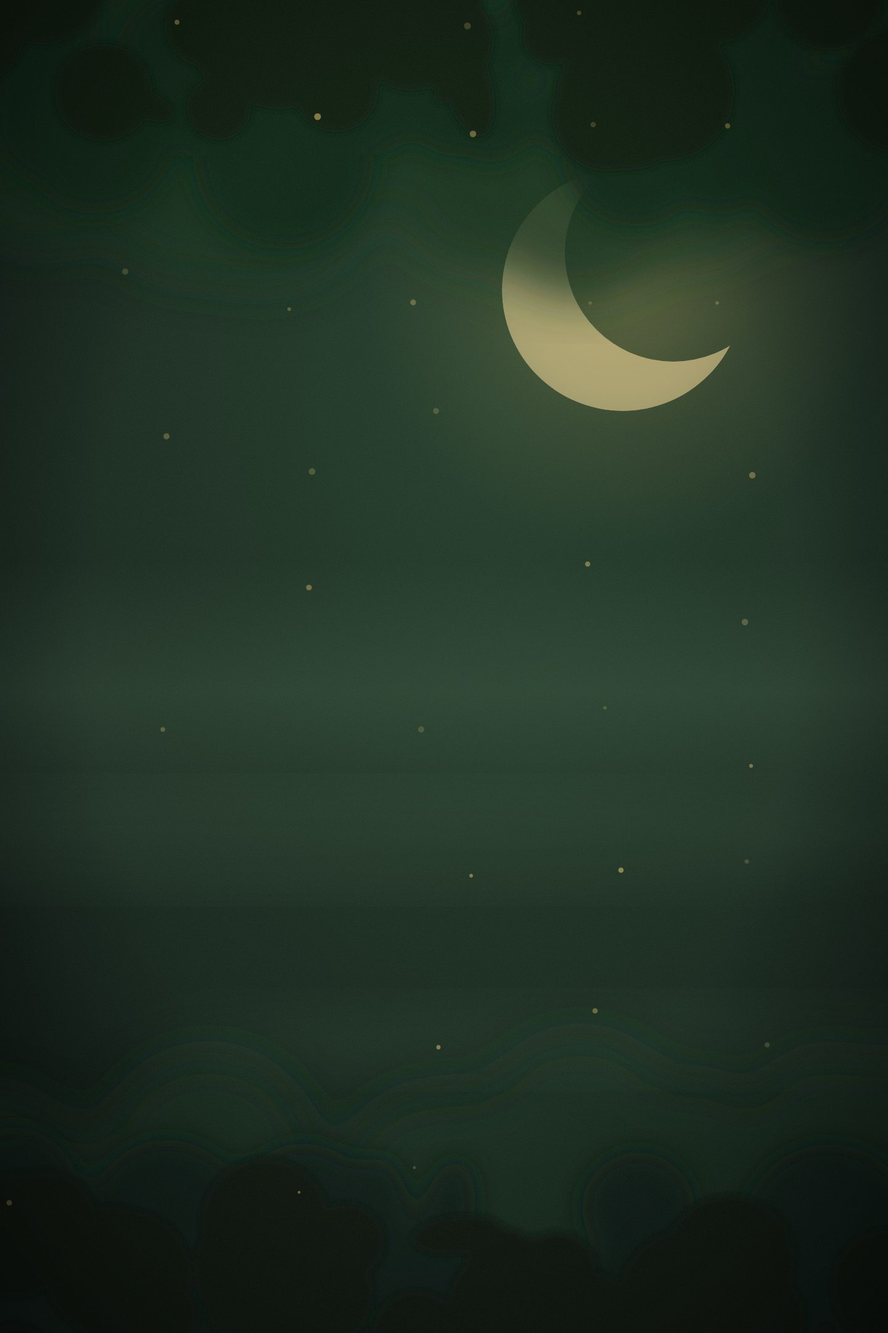
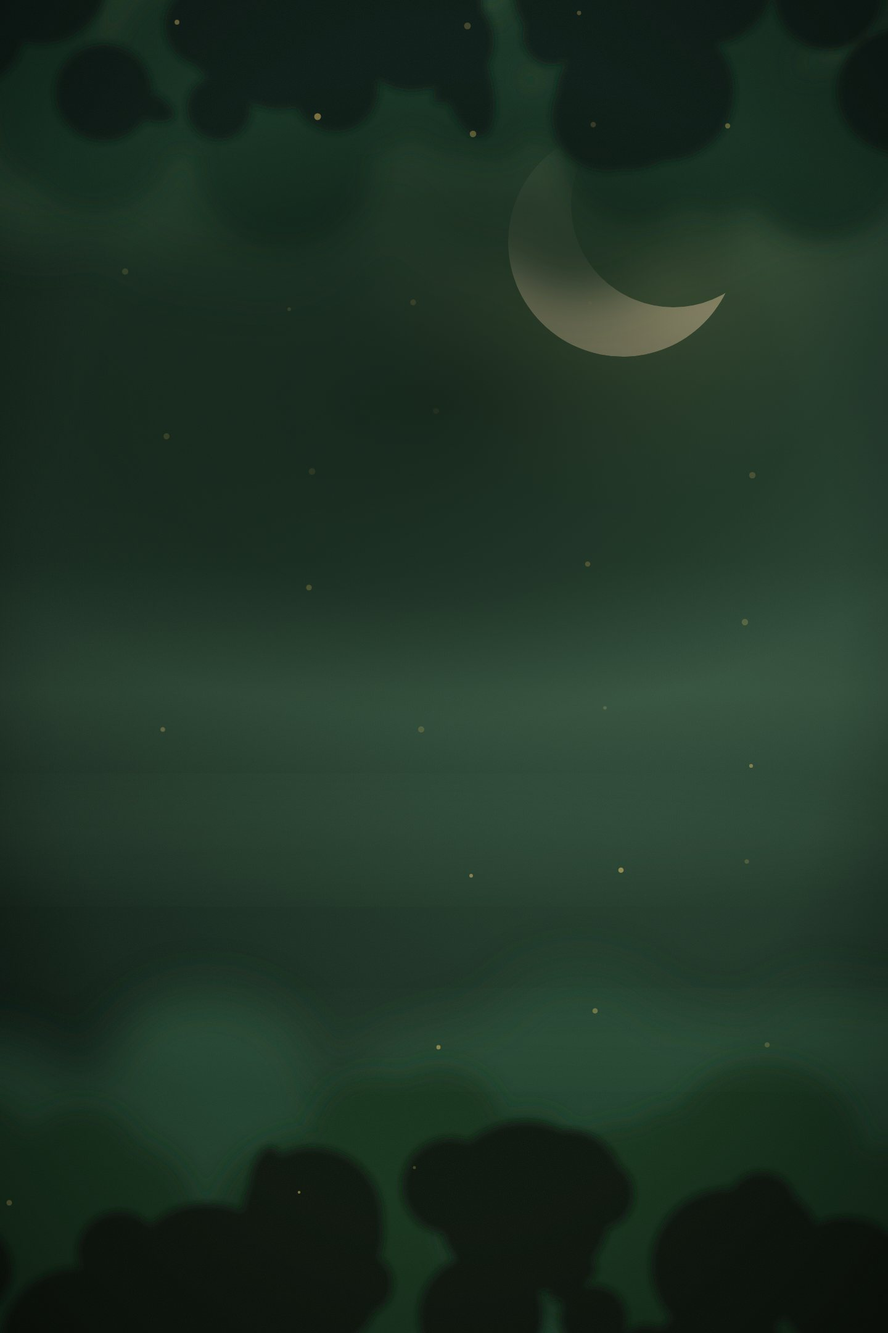
brand: brighter backdrop with visible canopies and a moon clear of the form; fields that read on art

diff --git a/brand/src/backdrop.html b/brand/src/backdrop.html
@@ -1,10 +1,10 @@
 <!doctype html><html><head><meta charset="utf-8"><style>html,body{margin:0;padding:0;background:#0b1610;width:100vw;height:100vh;overflow:hidden}svg{display:block;width:100%;height:100%}</style></head><body><svg viewBox="0 0 1440 2160" xmlns="http://www.w3.org/2000/svg">
   <defs>
-    <radialGradient id="night" cx="58%" cy="26%" r="86%">
-      <stop offset="0%" stop-color="#24402c"/>
-      <stop offset="46%" stop-color="#1a2d20"/>
-      <stop offset="78%" stop-color="#132219"/>
-      <stop offset="100%" stop-color="#0b1610"/>
+    <radialGradient id="night" cx="72%" cy="18%" r="92%">
+      <stop offset="0%" stop-color="#3d6247"/>
+      <stop offset="34%" stop-color="#2b4735"/>
+      <stop offset="66%" stop-color="#1d3325"/>
+      <stop offset="100%" stop-color="#101f16"/>
     </radialGradient>
     <radialGradient id="moonglow" cx="0.5" cy="0.5" r="0.5">
       <stop offset="0%" stop-color="#e8c46a" stop-opacity="0.30"/>
@@ -17,13 +17,18 @@
       <stop offset="100%" stop-color="#9fd6a4" stop-opacity="0"/>
     </linearGradient>
     <radialGradient id="vignette" cx="50%" cy="46%" r="72%">
-      <stop offset="55%" stop-color="#000000" stop-opacity="0"/>
-      <stop offset="100%" stop-color="#000000" stop-opacity="0.55"/>
+      <stop offset="62%" stop-color="#000000" stop-opacity="0"/>
+      <stop offset="100%" stop-color="#000000" stop-opacity="0.42"/>
+    </radialGradient>
+    <radialGradient id="pool" cx="0.5" cy="0.5" r="0.5">
+      <stop offset="0%" stop-color="#0c1810" stop-opacity="0.72"/>
+      <stop offset="62%" stop-color="#0c1810" stop-opacity="0.42"/>
+      <stop offset="100%" stop-color="#0c1810" stop-opacity="0"/>
     </radialGradient>
     <mask id="crescent">
       <rect width="1440" height="2160" fill="black"/>
-      <circle cx="1010" cy="470" r="196" fill="white"/>
-      <circle cx="1092" cy="410" r="176" fill="black"/>
+      <circle cx="1010" cy="392" r="186" fill="white"/>
+      <circle cx="1092" cy="332" r="166" fill="black"/>
     </mask>
     <filter id="b6"><feGaussianBlur stdDeviation="6"/></filter>
     <filter id="b18"><feGaussianBlur stdDeviation="18"/></filter>
@@ -37,19 +42,19 @@
   <rect width="1440" height="2160" fill="url(#night)"/>
 
   <!-- moon: glow, then the crescent itself -->
-  <circle cx="1010" cy="470" r="420" fill="url(#moonglow)"/>
-  <circle cx="1010" cy="470" r="196" fill="#e8c46a" opacity="0.16" mask="url(#crescent)" filter="url(#b18)"/>
-  <circle cx="1010" cy="470" r="196" fill="#f0d79a" opacity="0.55" mask="url(#crescent)"/>
+  <circle cx="1010" cy="392" r="430" fill="url(#moonglow)"/>
+  <circle cx="1010" cy="392" r="186" fill="#e8c46a" opacity="0.22" mask="url(#crescent)" filter="url(#b18)"/>
+  <circle cx="1010" cy="392" r="186" fill="#f7e3b4" opacity="0.85" mask="url(#crescent)"/>
 
   <!-- canopy: far layer, blurred, then nearer layers that bite into frame -->
-  <g opacity="0.85" filter="url(#b40)"><circle cx="1114" cy="128" r="86" fill="#16301f"/><circle cx="569" cy="79" r="94" fill="#16301f"/><circle cx="1125" cy="305" r="122" fill="#16301f"/><circle cx="1169" cy="147" r="139" fill="#16301f"/><circle cx="1160" cy="225" r="170" fill="#16301f"/><circle cx="475" cy="238" r="95" fill="#16301f"/><circle cx="818" cy="172" r="72" fill="#16301f"/><circle cx="1192" cy="115" r="111" fill="#16301f"/><circle cx="144" cy="55" r="159" fill="#16301f"/><circle cx="70" cy="228" r="175" fill="#16301f"/><circle cx="443" cy="140" r="167" fill="#16301f"/><circle cx="1224" cy="152" r="81" fill="#16301f"/><circle cx="112" cy="30" r="189" fill="#16301f"/><circle cx="320" cy="268" r="182" fill="#16301f"/><circle cx="1333" cy="210" r="92" fill="#16301f"/><circle cx="516" cy="181" r="183" fill="#16301f"/><circle cx="787" cy="33" r="107" fill="#16301f"/><circle cx="383" cy="251" r="90" fill="#16301f"/><circle cx="435" cy="297" r="85" fill="#16301f"/><circle cx="884" cy="-54" r="98" fill="#16301f"/><circle cx="-7" cy="188" r="177" fill="#16301f"/><circle cx="-26" cy="127" r="183" fill="#16301f"/><circle cx="811" cy="-55" r="112" fill="#16301f"/><circle cx="-7" cy="120" r="172" fill="#16301f"/><circle cx="1078" cy="74" r="153" fill="#16301f"/><circle cx="927" cy="249" r="114" fill="#16301f"/><circle cx="386" cy="117" r="111" fill="#16301f"/><circle cx="288" cy="113" r="180" fill="#16301f"/><circle cx="732" cy="-88" r="112" fill="#16301f"/><circle cx="424" cy="274" r="188" fill="#16301f"/><circle cx="774" cy="304" r="125" fill="#16301f"/><circle cx="1272" cy="-34" r="124" fill="#16301f"/><circle cx="378" cy="-54" r="174" fill="#16301f"/><circle cx="654" cy="166" r="158" fill="#16301f"/><circle cx="-22" cy="47" r="176" fill="#16301f"/><circle cx="1231" cy="22" r="135" fill="#16301f"/><circle cx="593" cy="46" r="100" fill="#16301f"/><circle cx="1348" cy="-59" r="138" fill="#16301f"/><circle cx="749" cy="93" r="128" fill="#16301f"/><circle cx="-54" cy="3" r="79" fill="#16301f"/><circle cx="1035" cy="6" r="163" fill="#16301f"/><circle cx="1289" cy="143" r="153" fill="#16301f"/><circle cx="1025" cy="-52" r="121" fill="#16301f"/><circle cx="45" cy="289" r="72" fill="#16301f"/><circle cx="941" cy="301" r="184" fill="#16301f"/><circle cx="422" cy="311" r="118" fill="#16301f"/><ellipse cx="769" cy="189" rx="128" ry="54" fill="#16301f" transform="rotate(129 769 189)"/><ellipse cx="333" cy="27" rx="46" ry="19" fill="#16301f" transform="rotate(63 333 27)"/><ellipse cx="1049" cy="-20" rx="118" ry="50" fill="#16301f" transform="rotate(168 1049 -20)"/><ellipse cx="-29" cy="311" rx="134" ry="56" fill="#16301f" transform="rotate(27 -29 311)"/><ellipse cx="163" cy="48" rx="114" ry="48" fill="#16301f" transform="rotate(110 163 48)"/><ellipse cx="1321" cy="239" rx="141" ry="59" fill="#16301f" transform="rotate(101 1321 239)"/><ellipse cx="1165" cy="106" rx="91" ry="38" fill="#16301f" transform="rotate(47 1165 106)"/><ellipse cx="1448" cy="149" rx="151" ry="64" fill="#16301f" transform="rotate(18 1448 149)"/><ellipse cx="782" cy="258" rx="113" ry="47" fill="#16301f" transform="rotate(111 782 258)"/><ellipse cx="654" cy="249" rx="46" ry="19" fill="#16301f" transform="rotate(6 654 249)"/><ellipse cx="37" cy="33" rx="42" ry="18" fill="#16301f" transform="rotate(76 37 33)"/></g>
-  <g opacity="0.95" filter="url(#b18)"><circle cx="1165" cy="-35" r="140" fill="#102518"/><circle cx="1074" cy="70" r="113" fill="#102518"/><circle cx="533" cy="-58" r="118" fill="#102518"/><circle cx="1196" cy="68" r="86" fill="#102518"/><circle cx="741" cy="69" r="70" fill="#102518"/><circle cx="23" cy="101" r="94" fill="#102518"/><circle cx="1172" cy="219" r="87" fill="#102518"/><circle cx="887" cy="43" r="77" fill="#102518"/><circle cx="900" cy="53" r="74" fill="#102518"/><circle cx="1321" cy="223" r="92" fill="#102518"/><circle cx="374" cy="219" r="67" fill="#102518"/><circle cx="1116" cy="157" r="61" fill="#102518"/><circle cx="593" cy="148" r="104" fill="#102518"/><circle cx="1050" cy="69" r="96" fill="#102518"/><circle cx="1138" cy="126" r="126" fill="#102518"/><circle cx="932" cy="181" r="76" fill="#102518"/><circle cx="1178" cy="10" r="91" fill="#102518"/><circle cx="905" cy="45" r="61" fill="#102518"/><circle cx="154" cy="185" r="112" fill="#102518"/><circle cx="460" cy="258" r="146" fill="#102518"/><circle cx="155" cy="215" r="131" fill="#102518"/><circle cx="89" cy="194" r="109" fill="#102518"/><circle cx="1107" cy="225" r="109" fill="#102518"/><circle cx="745" cy="144" r="109" fill="#102518"/><circle cx="327" cy="110" r="144" fill="#102518"/><circle cx="1164" cy="257" r="91" fill="#102518"/><circle cx="795" cy="188" r="75" fill="#102518"/><circle cx="1259" cy="-21" r="125" fill="#102518"/><circle cx="1203" cy="160" r="100" fill="#102518"/><circle cx="44" cy="92" r="92" fill="#102518"/><circle cx="58" cy="20" r="105" fill="#102518"/><circle cx="1030" cy="248" r="119" fill="#102518"/><circle cx="1338" cy="253" r="139" fill="#102518"/><circle cx="1219" cy="148" r="92" fill="#102518"/><circle cx="1127" cy="16" r="136" fill="#102518"/><circle cx="563" cy="98" r="120" fill="#102518"/><circle cx="493" cy="153" r="144" fill="#102518"/><circle cx="1355" cy="201" r="97" fill="#102518"/><ellipse cx="1283" cy="-30" rx="91" ry="38" fill="#102518" transform="rotate(75 1283 -30)"/><ellipse cx="1234" cy="42" rx="49" ry="21" fill="#102518" transform="rotate(48 1234 42)"/><ellipse cx="1207" cy="100" rx="50" ry="21" fill="#102518" transform="rotate(86 1207 100)"/><ellipse cx="1432" cy="-26" rx="94" ry="39" fill="#102518" transform="rotate(90 1432 -26)"/><ellipse cx="1110" cy="-31" rx="106" ry="45" fill="#102518" transform="rotate(169 1110 -31)"/><ellipse cx="1179" cy="142" rx="54" ry="23" fill="#102518" transform="rotate(57 1179 142)"/><ellipse cx="592" cy="201" rx="116" ry="49" fill="#102518" transform="rotate(147 592 201)"/><ellipse cx="67" cy="188" rx="59" ry="25" fill="#102518" transform="rotate(158 67 188)"/><ellipse cx="39" cy="16" rx="68" ry="28" fill="#102518" transform="rotate(140 39 16)"/></g>
-  <g opacity="1.0" filter="url(#b6)"><circle cx="168" cy="150" r="79" fill="#0a1a11"/><circle cx="1342" cy="-57" r="59" fill="#0a1a11"/><circle cx="1023" cy="79" r="49" fill="#0a1a11"/><circle cx="374" cy="43" r="51" fill="#0a1a11"/><circle cx="985" cy="188" r="90" fill="#0a1a11"/><circle cx="414" cy="43" r="115" fill="#0a1a11"/><circle cx="667" cy="54" r="93" fill="#0a1a11"/><circle cx="1018" cy="160" r="116" fill="#0a1a11"/><circle cx="991" cy="81" r="58" fill="#0a1a11"/><circle cx="949" cy="24" r="48" fill="#0a1a11"/><circle cx="1147" cy="-35" r="108" fill="#0a1a11"/><circle cx="-44" cy="54" r="83" fill="#0a1a11"/><circle cx="658" cy="77" r="66" fill="#0a1a11"/><circle cx="-39" cy="-48" r="57" fill="#0a1a11"/><circle cx="1343" cy="-6" r="87" fill="#0a1a11"/><circle cx="603" cy="-55" r="107" fill="#0a1a11"/><circle cx="1018" cy="153" r="75" fill="#0a1a11"/><circle cx="530" cy="25" r="91" fill="#0a1a11"/><circle cx="453" cy="67" r="110" fill="#0a1a11"/><circle cx="1048" cy="-58" r="118" fill="#0a1a11"/><circle cx="721" cy="67" r="80" fill="#0a1a11"/><circle cx="355" cy="175" r="52" fill="#0a1a11"/><circle cx="334" cy="41" r="67" fill="#0a1a11"/><circle cx="544" cy="144" r="70" fill="#0a1a11"/><circle cx="1078" cy="148" r="113" fill="#0a1a11"/><circle cx="1015" cy="18" r="48" fill="#0a1a11"/><circle cx="895" cy="58" r="47" fill="#0a1a11"/><circle cx="947" cy="-20" r="115" fill="#0a1a11"/><circle cx="1458" cy="147" r="101" fill="#0a1a11"/><circle cx="67" cy="-35" r="107" fill="#0a1a11"/><ellipse cx="756" cy="130" rx="95" ry="40" fill="#0a1a11" transform="rotate(74 756 130)"/><ellipse cx="232" cy="168" rx="54" ry="23" fill="#0a1a11" transform="rotate(23 232 168)"/><ellipse cx="544" cy="-30" rx="66" ry="28" fill="#0a1a11" transform="rotate(81 544 -30)"/><ellipse cx="-23" cy="37" rx="72" ry="30" fill="#0a1a11" transform="rotate(104 -23 37)"/><ellipse cx="739" cy="-39" rx="79" ry="33" fill="#0a1a11" transform="rotate(67 739 -39)"/><ellipse cx="435" cy="117" rx="38" ry="16" fill="#0a1a11" transform="rotate(148 435 117)"/><ellipse cx="739" cy="138" rx="43" ry="18" fill="#0a1a11" transform="rotate(142 739 138)"/></g>
+  <g opacity="0.9" filter="url(#b40)"><circle cx="1114" cy="128" r="86" fill="#25422f"/><circle cx="569" cy="79" r="94" fill="#25422f"/><circle cx="1125" cy="305" r="122" fill="#25422f"/><circle cx="1169" cy="147" r="139" fill="#25422f"/><circle cx="1160" cy="225" r="170" fill="#25422f"/><circle cx="475" cy="238" r="95" fill="#25422f"/><circle cx="818" cy="172" r="72" fill="#25422f"/><circle cx="1192" cy="115" r="111" fill="#25422f"/><circle cx="144" cy="55" r="159" fill="#25422f"/><circle cx="70" cy="228" r="175" fill="#25422f"/><circle cx="443" cy="140" r="167" fill="#25422f"/><circle cx="1224" cy="152" r="81" fill="#25422f"/><circle cx="112" cy="30" r="189" fill="#25422f"/><circle cx="320" cy="268" r="182" fill="#25422f"/><circle cx="1333" cy="210" r="92" fill="#25422f"/><circle cx="516" cy="181" r="183" fill="#25422f"/><circle cx="787" cy="33" r="107" fill="#25422f"/><circle cx="383" cy="251" r="90" fill="#25422f"/><circle cx="435" cy="297" r="85" fill="#25422f"/><circle cx="884" cy="-54" r="98" fill="#25422f"/><circle cx="-7" cy="188" r="177" fill="#25422f"/><circle cx="-26" cy="127" r="183" fill="#25422f"/><circle cx="811" cy="-55" r="112" fill="#25422f"/><circle cx="-7" cy="120" r="172" fill="#25422f"/><circle cx="1078" cy="74" r="153" fill="#25422f"/><circle cx="927" cy="249" r="114" fill="#25422f"/><circle cx="386" cy="117" r="111" fill="#25422f"/><circle cx="288" cy="113" r="180" fill="#25422f"/><circle cx="732" cy="-88" r="112" fill="#25422f"/><circle cx="424" cy="274" r="188" fill="#25422f"/><circle cx="774" cy="304" r="125" fill="#25422f"/><circle cx="1272" cy="-34" r="124" fill="#25422f"/><circle cx="378" cy="-54" r="174" fill="#25422f"/><circle cx="654" cy="166" r="158" fill="#25422f"/><circle cx="-22" cy="47" r="176" fill="#25422f"/><circle cx="1231" cy="22" r="135" fill="#25422f"/><circle cx="593" cy="46" r="100" fill="#25422f"/><circle cx="1348" cy="-59" r="138" fill="#25422f"/><circle cx="749" cy="93" r="128" fill="#25422f"/><circle cx="-54" cy="3" r="79" fill="#25422f"/><circle cx="1035" cy="6" r="163" fill="#25422f"/><circle cx="1289" cy="143" r="153" fill="#25422f"/><circle cx="1025" cy="-52" r="121" fill="#25422f"/><circle cx="45" cy="289" r="72" fill="#25422f"/><circle cx="941" cy="301" r="184" fill="#25422f"/><circle cx="422" cy="311" r="118" fill="#25422f"/><ellipse cx="769" cy="189" rx="128" ry="54" fill="#25422f" transform="rotate(129 769 189)"/><ellipse cx="333" cy="27" rx="46" ry="19" fill="#25422f" transform="rotate(63 333 27)"/><ellipse cx="1049" cy="-20" rx="118" ry="50" fill="#25422f" transform="rotate(168 1049 -20)"/><ellipse cx="-29" cy="311" rx="134" ry="56" fill="#25422f" transform="rotate(27 -29 311)"/><ellipse cx="163" cy="48" rx="114" ry="48" fill="#25422f" transform="rotate(110 163 48)"/><ellipse cx="1321" cy="239" rx="141" ry="59" fill="#25422f" transform="rotate(101 1321 239)"/><ellipse cx="1165" cy="106" rx="91" ry="38" fill="#25422f" transform="rotate(47 1165 106)"/><ellipse cx="1448" cy="149" rx="151" ry="64" fill="#25422f" transform="rotate(18 1448 149)"/><ellipse cx="782" cy="258" rx="113" ry="47" fill="#25422f" transform="rotate(111 782 258)"/><ellipse cx="654" cy="249" rx="46" ry="19" fill="#25422f" transform="rotate(6 654 249)"/><ellipse cx="37" cy="33" rx="42" ry="18" fill="#25422f" transform="rotate(76 37 33)"/></g>
+  <g opacity="0.95" filter="url(#b18)"><circle cx="1165" cy="-35" r="140" fill="#193024"/><circle cx="1074" cy="70" r="113" fill="#193024"/><circle cx="533" cy="-58" r="118" fill="#193024"/><circle cx="1196" cy="68" r="86" fill="#193024"/><circle cx="741" cy="69" r="70" fill="#193024"/><circle cx="23" cy="101" r="94" fill="#193024"/><circle cx="1172" cy="219" r="87" fill="#193024"/><circle cx="887" cy="43" r="77" fill="#193024"/><circle cx="900" cy="53" r="74" fill="#193024"/><circle cx="1321" cy="223" r="92" fill="#193024"/><circle cx="374" cy="219" r="67" fill="#193024"/><circle cx="1116" cy="157" r="61" fill="#193024"/><circle cx="593" cy="148" r="104" fill="#193024"/><circle cx="1050" cy="69" r="96" fill="#193024"/><circle cx="1138" cy="126" r="126" fill="#193024"/><circle cx="932" cy="181" r="76" fill="#193024"/><circle cx="1178" cy="10" r="91" fill="#193024"/><circle cx="905" cy="45" r="61" fill="#193024"/><circle cx="154" cy="185" r="112" fill="#193024"/><circle cx="460" cy="258" r="146" fill="#193024"/><circle cx="155" cy="215" r="131" fill="#193024"/><circle cx="89" cy="194" r="109" fill="#193024"/><circle cx="1107" cy="225" r="109" fill="#193024"/><circle cx="745" cy="144" r="109" fill="#193024"/><circle cx="327" cy="110" r="144" fill="#193024"/><circle cx="1164" cy="257" r="91" fill="#193024"/><circle cx="795" cy="188" r="75" fill="#193024"/><circle cx="1259" cy="-21" r="125" fill="#193024"/><circle cx="1203" cy="160" r="100" fill="#193024"/><circle cx="44" cy="92" r="92" fill="#193024"/><circle cx="58" cy="20" r="105" fill="#193024"/><circle cx="1030" cy="248" r="119" fill="#193024"/><circle cx="1338" cy="253" r="139" fill="#193024"/><circle cx="1219" cy="148" r="92" fill="#193024"/><circle cx="1127" cy="16" r="136" fill="#193024"/><circle cx="563" cy="98" r="120" fill="#193024"/><circle cx="493" cy="153" r="144" fill="#193024"/><circle cx="1355" cy="201" r="97" fill="#193024"/><ellipse cx="1283" cy="-30" rx="91" ry="38" fill="#193024" transform="rotate(75 1283 -30)"/><ellipse cx="1234" cy="42" rx="49" ry="21" fill="#193024" transform="rotate(48 1234 42)"/><ellipse cx="1207" cy="100" rx="50" ry="21" fill="#193024" transform="rotate(86 1207 100)"/><ellipse cx="1432" cy="-26" rx="94" ry="39" fill="#193024" transform="rotate(90 1432 -26)"/><ellipse cx="1110" cy="-31" rx="106" ry="45" fill="#193024" transform="rotate(169 1110 -31)"/><ellipse cx="1179" cy="142" rx="54" ry="23" fill="#193024" transform="rotate(57 1179 142)"/><ellipse cx="592" cy="201" rx="116" ry="49" fill="#193024" transform="rotate(147 592 201)"/><ellipse cx="67" cy="188" rx="59" ry="25" fill="#193024" transform="rotate(158 67 188)"/><ellipse cx="39" cy="16" rx="68" ry="28" fill="#193024" transform="rotate(140 39 16)"/></g>
+  <g opacity="1.0" filter="url(#b6)"><circle cx="168" cy="150" r="79" fill="#0e1f16"/><circle cx="1342" cy="-57" r="59" fill="#0e1f16"/><circle cx="1023" cy="79" r="49" fill="#0e1f16"/><circle cx="374" cy="43" r="51" fill="#0e1f16"/><circle cx="985" cy="188" r="90" fill="#0e1f16"/><circle cx="414" cy="43" r="115" fill="#0e1f16"/><circle cx="667" cy="54" r="93" fill="#0e1f16"/><circle cx="1018" cy="160" r="116" fill="#0e1f16"/><circle cx="991" cy="81" r="58" fill="#0e1f16"/><circle cx="949" cy="24" r="48" fill="#0e1f16"/><circle cx="1147" cy="-35" r="108" fill="#0e1f16"/><circle cx="-44" cy="54" r="83" fill="#0e1f16"/><circle cx="658" cy="77" r="66" fill="#0e1f16"/><circle cx="-39" cy="-48" r="57" fill="#0e1f16"/><circle cx="1343" cy="-6" r="87" fill="#0e1f16"/><circle cx="603" cy="-55" r="107" fill="#0e1f16"/><circle cx="1018" cy="153" r="75" fill="#0e1f16"/><circle cx="530" cy="25" r="91" fill="#0e1f16"/><circle cx="453" cy="67" r="110" fill="#0e1f16"/><circle cx="1048" cy="-58" r="118" fill="#0e1f16"/><circle cx="721" cy="67" r="80" fill="#0e1f16"/><circle cx="355" cy="175" r="52" fill="#0e1f16"/><circle cx="334" cy="41" r="67" fill="#0e1f16"/><circle cx="544" cy="144" r="70" fill="#0e1f16"/><circle cx="1078" cy="148" r="113" fill="#0e1f16"/><circle cx="1015" cy="18" r="48" fill="#0e1f16"/><circle cx="895" cy="58" r="47" fill="#0e1f16"/><circle cx="947" cy="-20" r="115" fill="#0e1f16"/><circle cx="1458" cy="147" r="101" fill="#0e1f16"/><circle cx="67" cy="-35" r="107" fill="#0e1f16"/><ellipse cx="756" cy="130" rx="95" ry="40" fill="#0e1f16" transform="rotate(74 756 130)"/><ellipse cx="232" cy="168" rx="54" ry="23" fill="#0e1f16" transform="rotate(23 232 168)"/><ellipse cx="544" cy="-30" rx="66" ry="28" fill="#0e1f16" transform="rotate(81 544 -30)"/><ellipse cx="-23" cy="37" rx="72" ry="30" fill="#0e1f16" transform="rotate(104 -23 37)"/><ellipse cx="739" cy="-39" rx="79" ry="33" fill="#0e1f16" transform="rotate(67 739 -39)"/><ellipse cx="435" cy="117" rx="38" ry="16" fill="#0e1f16" transform="rotate(148 435 117)"/><ellipse cx="739" cy="138" rx="43" ry="18" fill="#0e1f16" transform="rotate(142 739 138)"/></g>
 
   <!-- undergrowth, rising from the bottom edge -->
-  <g opacity="0.9" filter="url(#b40)"><circle cx="1481" cy="2015" r="185" fill="#142a1c"/><circle cx="982" cy="2237" r="168" fill="#142a1c"/><circle cx="1077" cy="2031" r="195" fill="#142a1c"/><circle cx="338" cy="1879" r="169" fill="#142a1c"/><circle cx="1342" cy="1834" r="124" fill="#142a1c"/><circle cx="1022" cy="2244" r="137" fill="#142a1c"/><circle cx="1170" cy="1946" r="91" fill="#142a1c"/><circle cx="-40" cy="2204" r="88" fill="#142a1c"/><circle cx="156" cy="2088" r="141" fill="#142a1c"/><circle cx="-26" cy="1937" r="171" fill="#142a1c"/><circle cx="1486" cy="2000" r="144" fill="#142a1c"/><circle cx="713" cy="1934" r="166" fill="#142a1c"/><circle cx="432" cy="1932" r="95" fill="#142a1c"/><circle cx="864" cy="1943" r="185" fill="#142a1c"/><circle cx="973" cy="2094" r="80" fill="#142a1c"/><circle cx="1302" cy="2231" r="151" fill="#142a1c"/><circle cx="1191" cy="2236" r="101" fill="#142a1c"/><circle cx="1156" cy="2234" r="96" fill="#142a1c"/><circle cx="1001" cy="1912" r="90" fill="#142a1c"/><circle cx="745" cy="2220" r="98" fill="#142a1c"/><circle cx="148" cy="2013" r="111" fill="#142a1c"/><circle cx="1127" cy="2013" r="183" fill="#142a1c"/><circle cx="942" cy="1838" r="157" fill="#142a1c"/><circle cx="1129" cy="1845" r="97" fill="#142a1c"/><circle cx="1103" cy="2156" r="177" fill="#142a1c"/><circle cx="836" cy="1968" r="96" fill="#142a1c"/><circle cx="347" cy="1928" r="154" fill="#142a1c"/><circle cx="1396" cy="2072" r="70" fill="#142a1c"/><circle cx="1241" cy="1976" r="118" fill="#142a1c"/><circle cx="1472" cy="1888" r="173" fill="#142a1c"/><circle cx="921" cy="1926" r="80" fill="#142a1c"/><circle cx="846" cy="1980" r="81" fill="#142a1c"/><circle cx="1307" cy="2048" r="157" fill="#142a1c"/><circle cx="911" cy="1965" r="119" fill="#142a1c"/><circle cx="136" cy="1947" r="112" fill="#142a1c"/><circle cx="810" cy="2093" r="138" fill="#142a1c"/><circle cx="299" cy="2091" r="104" fill="#142a1c"/><circle cx="307" cy="1977" r="151" fill="#142a1c"/><circle cx="765" cy="1847" r="84" fill="#142a1c"/><circle cx="1460" cy="2053" r="184" fill="#142a1c"/><ellipse cx="1195" cy="2006" rx="125" ry="53" fill="#142a1c" transform="rotate(1 1195 2006)"/><ellipse cx="861" cy="1985" rx="115" ry="48" fill="#142a1c" transform="rotate(130 861 1985)"/><ellipse cx="446" cy="1966" rx="157" ry="66" fill="#142a1c" transform="rotate(72 446 1966)"/><ellipse cx="290" cy="1859" rx="100" ry="42" fill="#142a1c" transform="rotate(134 290 1859)"/><ellipse cx="822" cy="2215" rx="110" ry="46" fill="#142a1c" transform="rotate(63 822 2215)"/><ellipse cx="1427" cy="1904" rx="43" ry="18" fill="#142a1c" transform="rotate(43 1427 1904)"/><ellipse cx="966" cy="1999" rx="74" ry="31" fill="#142a1c" transform="rotate(3 966 1999)"/><ellipse cx="315" cy="2179" rx="42" ry="18" fill="#142a1c" transform="rotate(138 315 2179)"/><ellipse cx="693" cy="2197" rx="45" ry="19" fill="#142a1c" transform="rotate(51 693 2197)"/><ellipse cx="546" cy="2093" rx="127" ry="54" fill="#142a1c" transform="rotate(72 546 2093)"/></g>
-  <g opacity="0.95" filter="url(#b18)"><circle cx="7" cy="2076" r="133" fill="#0d1f14"/><circle cx="1414" cy="2032" r="136" fill="#0d1f14"/><circle cx="492" cy="1967" r="114" fill="#0d1f14"/><circle cx="811" cy="2121" r="61" fill="#0d1f14"/><circle cx="31" cy="2117" r="68" fill="#0d1f14"/><circle cx="271" cy="1972" r="125" fill="#0d1f14"/><circle cx="1089" cy="2157" r="145" fill="#0d1f14"/><circle cx="234" cy="2019" r="106" fill="#0d1f14"/><circle cx="1018" cy="2179" r="135" fill="#0d1f14"/><circle cx="24" cy="1929" r="102" fill="#0d1f14"/><circle cx="195" cy="2125" r="90" fill="#0d1f14"/><circle cx="1291" cy="2167" r="149" fill="#0d1f14"/><circle cx="356" cy="2043" r="58" fill="#0d1f14"/><circle cx="586" cy="1948" r="70" fill="#0d1f14"/><circle cx="539" cy="2140" r="88" fill="#0d1f14"/><circle cx="930" cy="2168" r="68" fill="#0d1f14"/><circle cx="1458" cy="2147" r="79" fill="#0d1f14"/><circle cx="687" cy="2140" r="131" fill="#0d1f14"/><circle cx="826" cy="2211" r="89" fill="#0d1f14"/><circle cx="257" cy="1914" r="66" fill="#0d1f14"/><circle cx="416" cy="2114" r="124" fill="#0d1f14"/><circle cx="17" cy="2138" r="63" fill="#0d1f14"/><circle cx="94" cy="2031" r="129" fill="#0d1f14"/><circle cx="71" cy="2003" r="117" fill="#0d1f14"/><circle cx="531" cy="2140" r="103" fill="#0d1f14"/><circle cx="1312" cy="2043" r="113" fill="#0d1f14"/><circle cx="983" cy="2093" r="68" fill="#0d1f14"/><circle cx="271" cy="2133" r="91" fill="#0d1f14"/><circle cx="396" cy="2009" r="121" fill="#0d1f14"/><circle cx="1474" cy="2063" r="56" fill="#0d1f14"/><circle cx="580" cy="2197" r="101" fill="#0d1f14"/><circle cx="547" cy="2022" r="94" fill="#0d1f14"/><circle cx="1345" cy="1994" r="140" fill="#0d1f14"/><circle cx="1035" cy="1958" r="91" fill="#0d1f14"/><ellipse cx="1059" cy="2105" rx="60" ry="25" fill="#0d1f14" transform="rotate(97 1059 2105)"/><ellipse cx="162" cy="2210" rx="91" ry="38" fill="#0d1f14" transform="rotate(177 162 2210)"/><ellipse cx="606" cy="2158" rx="96" ry="40" fill="#0d1f14" transform="rotate(129 606 2158)"/><ellipse cx="721" cy="1988" rx="108" ry="45" fill="#0d1f14" transform="rotate(102 721 1988)"/><ellipse cx="631" cy="1962" rx="86" ry="36" fill="#0d1f14" transform="rotate(79 631 1962)"/><ellipse cx="270" cy="2029" rx="103" ry="43" fill="#0d1f14" transform="rotate(104 270 2029)"/><ellipse cx="13" cy="1928" rx="86" ry="36" fill="#0d1f14" transform="rotate(152 13 1928)"/><ellipse cx="1327" cy="2007" rx="59" ry="25" fill="#0d1f14" transform="rotate(179 1327 2007)"/></g>
-  <g opacity="1.0" filter="url(#b6)"><circle cx="817" cy="2054" r="63" fill="#08150d"/><circle cx="26" cy="2001" r="100" fill="#08150d"/><circle cx="1430" cy="2117" r="47" fill="#08150d"/><circle cx="177" cy="2058" r="105" fill="#08150d"/><circle cx="161" cy="2111" r="46" fill="#08150d"/><circle cx="1048" cy="2183" r="105" fill="#08150d"/><circle cx="1226" cy="2138" r="80" fill="#08150d"/><circle cx="428" cy="2059" r="113" fill="#08150d"/><circle cx="878" cy="2120" r="85" fill="#08150d"/><circle cx="201" cy="2070" r="111" fill="#08150d"/><circle cx="1117" cy="2106" r="114" fill="#08150d"/><circle cx="840" cy="2125" r="115" fill="#08150d"/><circle cx="1183" cy="2044" r="107" fill="#08150d"/><circle cx="516" cy="2098" r="89" fill="#08150d"/><circle cx="184" cy="2200" r="57" fill="#08150d"/><circle cx="562" cy="2012" r="62" fill="#08150d"/><circle cx="1443" cy="2085" r="95" fill="#08150d"/><circle cx="71" cy="1987" r="89" fill="#08150d"/><circle cx="430" cy="1981" r="104" fill="#08150d"/><circle cx="1480" cy="2102" r="73" fill="#08150d"/><circle cx="405" cy="2107" r="73" fill="#08150d"/><circle cx="903" cy="2063" r="66" fill="#08150d"/><circle cx="876" cy="2073" r="70" fill="#08150d"/><circle cx="944" cy="2164" r="105" fill="#08150d"/><circle cx="675" cy="2163" r="72" fill="#08150d"/><circle cx="267" cy="2133" r="54" fill="#08150d"/><ellipse cx="1339" cy="2168" rx="23" ry="9" fill="#08150d" transform="rotate(89 1339 2168)"/><ellipse cx="435" cy="2014" rx="72" ry="30" fill="#08150d" transform="rotate(109 435 2014)"/><ellipse cx="588" cy="2101" rx="24" ry="10" fill="#08150d" transform="rotate(148 588 2101)"/><ellipse cx="743" cy="2001" rx="75" ry="31" fill="#08150d" transform="rotate(174 743 2001)"/><ellipse cx="33" cy="2161" rx="34" ry="14" fill="#08150d" transform="rotate(14 33 2161)"/><ellipse cx="957" cy="2144" rx="26" ry="11" fill="#08150d" transform="rotate(172 957 2144)"/></g>
+  <g opacity="0.95" filter="url(#b40)"><circle cx="1481" cy="1959" r="204" fill="#24422e"/><circle cx="982" cy="2234" r="185" fill="#24422e"/><circle cx="1077" cy="1978" r="214" fill="#24422e"/><circle cx="338" cy="1790" r="186" fill="#24422e"/><circle cx="1342" cy="1735" r="138" fill="#24422e"/><circle cx="1022" cy="2242" r="152" fill="#24422e"/><circle cx="1170" cy="1874" r="102" fill="#24422e"/><circle cx="-40" cy="2193" r="99" fill="#24422e"/><circle cx="156" cy="2049" r="156" fill="#24422e"/><circle cx="-26" cy="1863" r="189" fill="#24422e"/><circle cx="1486" cy="1940" r="160" fill="#24422e"/><circle cx="713" cy="1859" r="184" fill="#24422e"/><circle cx="432" cy="1856" r="107" fill="#24422e"/><circle cx="864" cy="1870" r="204" fill="#24422e"/><circle cx="973" cy="2057" r="91" fill="#24422e"/><circle cx="1302" cy="2227" r="167" fill="#24422e"/><circle cx="1191" cy="2233" r="114" fill="#24422e"/><circle cx="1156" cy="2230" r="108" fill="#24422e"/><circle cx="1001" cy="1832" r="101" fill="#24422e"/><circle cx="745" cy="2213" r="111" fill="#24422e"/><circle cx="148" cy="1957" r="124" fill="#24422e"/><circle cx="1127" cy="1956" r="202" fill="#24422e"/><circle cx="942" cy="1739" r="173" fill="#24422e"/><circle cx="1129" cy="1749" r="109" fill="#24422e"/><circle cx="1103" cy="2133" r="195" fill="#24422e"/><circle cx="836" cy="1901" r="108" fill="#24422e"/><circle cx="347" cy="1851" r="170" fill="#24422e"/><circle cx="1396" cy="2030" r="80" fill="#24422e"/><circle cx="1241" cy="1910" r="132" fill="#24422e"/><circle cx="1472" cy="1802" r="191" fill="#24422e"/><circle cx="921" cy="1848" r="90" fill="#24422e"/><circle cx="846" cy="1915" r="92" fill="#24422e"/><circle cx="1307" cy="1999" r="173" fill="#24422e"/><circle cx="911" cy="1897" r="133" fill="#24422e"/><circle cx="136" cy="1875" r="125" fill="#24422e"/><circle cx="810" cy="2055" r="153" fill="#24422e"/><circle cx="299" cy="2053" r="116" fill="#24422e"/><circle cx="307" cy="1912" r="168" fill="#24422e"/><circle cx="765" cy="1751" r="95" fill="#24422e"/><circle cx="1460" cy="2006" r="203" fill="#24422e"/><circle cx="1207" cy="1947" r="181" fill="#24422e"/><circle cx="-48" cy="2038" r="132" fill="#24422e"/><circle cx="942" cy="2107" r="125" fill="#24422e"/><circle cx="445" cy="2238" r="136" fill="#24422e"/><ellipse cx="290" cy="1766" rx="111" ry="47" fill="#24422e" transform="rotate(134 290 1766)"/><ellipse cx="822" cy="2207" rx="122" ry="51" fill="#24422e" transform="rotate(63 822 2207)"/><ellipse cx="1427" cy="1822" rx="49" ry="21" fill="#24422e" transform="rotate(43 1427 1822)"/><ellipse cx="966" cy="1939" rx="82" ry="34" fill="#24422e" transform="rotate(3 966 1939)"/><ellipse cx="315" cy="2162" rx="48" ry="20" fill="#24422e" transform="rotate(138 315 2162)"/><ellipse cx="693" cy="2185" rx="51" ry="21" fill="#24422e" transform="rotate(51 693 2185)"/><ellipse cx="546" cy="2056" rx="141" ry="59" fill="#24422e" transform="rotate(72 546 2056)"/><ellipse cx="26" cy="2008" rx="151" ry="64" fill="#24422e" transform="rotate(170 26 2008)"/><ellipse cx="559" cy="2174" rx="88" ry="37" fill="#24422e" transform="rotate(33 559 2174)"/><ellipse cx="911" cy="2020" rx="133" ry="56" fill="#24422e" transform="rotate(11 911 2020)"/><ellipse cx="49" cy="2077" rx="59" ry="25" fill="#24422e" transform="rotate(38 49 2077)"/></g>
+  <g opacity="1.0" filter="url(#b18)"><circle cx="251" cy="2126" r="141" fill="#17301f"/><circle cx="1183" cy="2207" r="81" fill="#17301f"/><circle cx="486" cy="2045" r="136" fill="#17301f"/><circle cx="1294" cy="2166" r="66" fill="#17301f"/><circle cx="33" cy="2030" r="78" fill="#17301f"/><circle cx="1022" cy="1976" r="155" fill="#17301f"/><circle cx="1232" cy="2224" r="89" fill="#17301f"/><circle cx="609" cy="1845" r="106" fill="#17301f"/><circle cx="131" cy="1893" r="102" fill="#17301f"/><circle cx="1097" cy="1968" r="130" fill="#17301f"/><circle cx="1239" cy="1885" r="167" fill="#17301f"/><circle cx="1132" cy="1933" r="113" fill="#17301f"/><circle cx="1096" cy="2149" r="122" fill="#17301f"/><circle cx="1454" cy="1974" r="82" fill="#17301f"/><circle cx="-40" cy="1875" r="94" fill="#17301f"/><circle cx="966" cy="2120" r="65" fill="#17301f"/><circle cx="1089" cy="1866" r="71" fill="#17301f"/><circle cx="547" cy="2140" r="69" fill="#17301f"/><circle cx="407" cy="2091" r="102" fill="#17301f"/><circle cx="1098" cy="2031" r="157" fill="#17301f"/><circle cx="608" cy="2076" r="134" fill="#17301f"/><circle cx="859" cy="1886" r="83" fill="#17301f"/><circle cx="1062" cy="1981" r="92" fill="#17301f"/><circle cx="440" cy="2108" r="168" fill="#17301f"/><circle cx="712" cy="1833" r="105" fill="#17301f"/><circle cx="1385" cy="2022" r="103" fill="#17301f"/><circle cx="504" cy="1994" r="159" fill="#17301f"/><circle cx="363" cy="2188" r="137" fill="#17301f"/><circle cx="181" cy="1984" r="140" fill="#17301f"/><circle cx="921" cy="1971" r="119" fill="#17301f"/><circle cx="148" cy="2218" r="136" fill="#17301f"/><circle cx="1478" cy="2000" r="148" fill="#17301f"/><circle cx="1087" cy="2117" r="115" fill="#17301f"/><circle cx="330" cy="2179" r="122" fill="#17301f"/><circle cx="628" cy="1897" r="130" fill="#17301f"/><circle cx="621" cy="1911" r="102" fill="#17301f"/><circle cx="1221" cy="2060" r="64" fill="#17301f"/><circle cx="30" cy="2081" r="153" fill="#17301f"/><ellipse cx="1327" cy="1955" rx="66" ry="28" fill="#17301f" transform="rotate(179 1327 1955)"/><ellipse cx="814" cy="1976" rx="55" ry="23" fill="#17301f" transform="rotate(10 814 1976)"/><ellipse cx="163" cy="2122" rx="131" ry="55" fill="#17301f" transform="rotate(115 163 2122)"/><ellipse cx="10" cy="1891" rx="70" ry="30" fill="#17301f" transform="rotate(143 10 1891)"/><ellipse cx="176" cy="2076" rx="31" ry="13" fill="#17301f" transform="rotate(128 176 2076)"/><ellipse cx="1370" cy="2148" rx="117" ry="49" fill="#17301f" transform="rotate(131 1370 2148)"/><ellipse cx="665" cy="1955" rx="71" ry="30" fill="#17301f" transform="rotate(164 665 1955)"/><ellipse cx="874" cy="2091" rx="86" ry="36" fill="#17301f" transform="rotate(30 874 2091)"/><ellipse cx="619" cy="2180" rx="110" ry="46" fill="#17301f" transform="rotate(106 619 2180)"/></g>
+  <g opacity="1.0" filter="url(#b6)"><circle cx="1371" cy="2083" r="111" fill="#0a1810"/><circle cx="1400" cy="2149" r="79" fill="#0a1810"/><circle cx="1231" cy="2021" r="100" fill="#0a1810"/><circle cx="850" cy="1957" r="140" fill="#0a1810"/><circle cx="193" cy="2030" r="67" fill="#0a1810"/><circle cx="296" cy="2199" r="95" fill="#0a1810"/><circle cx="971" cy="1935" r="57" fill="#0a1810"/><circle cx="860" cy="2004" r="54" fill="#0a1810"/><circle cx="1172" cy="2206" r="102" fill="#0a1810"/><circle cx="518" cy="1999" r="104" fill="#0a1810"/><circle cx="526" cy="2095" r="87" fill="#0a1810"/><circle cx="372" cy="2090" r="90" fill="#0a1810"/><circle cx="455" cy="2103" r="126" fill="#0a1810"/><circle cx="1181" cy="2051" r="125" fill="#0a1810"/><circle cx="506" cy="1973" r="114" fill="#0a1810"/><circle cx="126" cy="2182" r="127" fill="#0a1810"/><circle cx="-58" cy="2058" r="78" fill="#0a1810"/><circle cx="241" cy="2113" r="104" fill="#0a1810"/><circle cx="585" cy="2080" r="52" fill="#0a1810"/><circle cx="1226" cy="2065" r="62" fill="#0a1810"/><circle cx="1048" cy="2201" r="54" fill="#0a1810"/><circle cx="1235" cy="1956" r="57" fill="#0a1810"/><circle cx="963" cy="2137" r="54" fill="#0a1810"/><circle cx="1428" cy="2192" r="122" fill="#0a1810"/><circle cx="832" cy="2020" r="55" fill="#0a1810"/><circle cx="780" cy="2133" r="101" fill="#0a1810"/><circle cx="919" cy="1921" r="91" fill="#0a1810"/><circle cx="465" cy="2203" r="101" fill="#0a1810"/><circle cx="730" cy="1922" r="78" fill="#0a1810"/><circle cx="335" cy="2086" r="136" fill="#0a1810"/><ellipse cx="275" cy="2178" rx="64" ry="27" fill="#0a1810" transform="rotate(133 275 2178)"/><ellipse cx="929" cy="2075" rx="46" ry="19" fill="#0a1810" transform="rotate(143 929 2075)"/><ellipse cx="404" cy="2146" rx="102" ry="43" fill="#0a1810" transform="rotate(115 404 2146)"/><ellipse cx="435" cy="1938" rx="79" ry="33" fill="#0a1810" transform="rotate(93 435 1938)"/><ellipse cx="216" cy="2155" rx="62" ry="26" fill="#0a1810" transform="rotate(165 216 2155)"/><ellipse cx="927" cy="2104" rx="46" ry="19" fill="#0a1810" transform="rotate(76 927 2104)"/><ellipse cx="1113" cy="2152" rx="68" ry="29" fill="#0a1810" transform="rotate(140 1113 2152)"/></g>
 
   <!-- mist bands across the quiet middle -->
   <rect x="0" y="907" width="1440" height="475" fill="url(#mist)"/>
@@ -60,6 +65,7 @@
   <g><circle cx="-14" cy="256" r="2.2" fill="#e8c46a" opacity="0.20"/><circle cx="15" cy="1949" r="4.5" fill="#e8c46a" opacity="0.37"/><circle cx="287" cy="36" r="3.9" fill="#e8c46a" opacity="0.46"/><circle cx="203" cy="440" r="5.1" fill="#e8c46a" opacity="0.21"/><circle cx="270" cy="707" r="4.9" fill="#e8c46a" opacity="0.30"/><circle cx="264" cy="1182" r="3.8" fill="#e8c46a" opacity="0.29"/><circle cx="515" cy="189" r="5.5" fill="#e8c46a" opacity="0.54"/><circle cx="469" cy="501" r="2.9" fill="#e8c46a" opacity="0.30"/><circle cx="506" cy="764" r="5.4" fill="#e8c46a" opacity="0.24"/><circle cx="501" cy="952" r="4.6" fill="#e8c46a" opacity="0.41"/><circle cx="485" cy="1932" r="2.2" fill="#e8c46a" opacity="0.52"/><circle cx="758" cy="42" r="5.5" fill="#e8c46a" opacity="0.23"/><circle cx="767" cy="217" r="5.3" fill="#e8c46a" opacity="0.42"/><circle cx="670" cy="490" r="4.7" fill="#e8c46a" opacity="0.33"/><circle cx="707" cy="666" r="4.8" fill="#e8c46a" opacity="0.22"/><circle cx="683" cy="1182" r="5.0" fill="#e8c46a" opacity="0.20"/><circle cx="764" cy="1419" r="2.9" fill="#e8c46a" opacity="0.50"/><circle cx="711" cy="1697" r="3.4" fill="#e8c46a" opacity="0.52"/><circle cx="672" cy="1892" r="2.4" fill="#e8c46a" opacity="0.26"/><circle cx="939" cy="21" r="3.4" fill="#e8c46a" opacity="0.29"/><circle cx="962" cy="202" r="4.4" fill="#e8c46a" opacity="0.20"/><circle cx="957" cy="491" r="2.7" fill="#e8c46a" opacity="0.22"/><circle cx="953" cy="914" r="4.3" fill="#e8c46a" opacity="0.45"/><circle cx="981" cy="1147" r="2.8" fill="#e8c46a" opacity="0.21"/><circle cx="1007" cy="1410" r="4.3" fill="#e8c46a" opacity="0.55"/><circle cx="965" cy="1638" r="4.3" fill="#e8c46a" opacity="0.39"/><circle cx="1180" cy="204" r="4.2" fill="#e8c46a" opacity="0.38"/><circle cx="1163" cy="491" r="2.8" fill="#e8c46a" opacity="0.29"/><circle cx="1220" cy="770" r="5.2" fill="#e8c46a" opacity="0.38"/><circle cx="1208" cy="1008" r="5.2" fill="#e8c46a" opacity="0.28"/><circle cx="1218" cy="1241" r="3.1" fill="#e8c46a" opacity="0.45"/><circle cx="1211" cy="1396" r="3.6" fill="#e8c46a" opacity="0.20"/><circle cx="1244" cy="1693" r="4.0" fill="#e8c46a" opacity="0.24"/></g>
 
   <!-- grain, then vignette on top of everything -->
-  <rect width="1440" height="2160" filter="url(#grain)" opacity="0.10"/>
+  <rect width="1440" height="2160" filter="url(#grain)" opacity="0.06"/>
+  <ellipse cx="720" cy="648" rx="893" ry="518" fill="url(#pool)"/>
   <rect width="1440" height="2160" fill="url(#vignette)"/>
 </svg></body></html>

diff --git a/brand/theme.css b/brand/theme.css
@@ -18,7 +18,7 @@ html{color-scheme:dark}
   --text-on-dark:#e4efe2!important;
   --text-code:#e9dcc3!important;
   --text-warning:#e8c46a!important;
-  --text-link:#e0b45c!important;
+  --text-link:#cbab6e!important;
   --text-link-hover:#eac97f!important;
   --interactive-muted:#6d8a6f!important;
 }
@@ -31,12 +31,12 @@ html{color-scheme:dark}
   --background-secondary-lighter:#223a2a!important;
   --background-tertiary:#213a2b!important;
   --background-header-secondary:#1a2c20!important;
-  --background-textarea:#213a2b!important;
+  --background-textarea:#22392a!important;
   --background-modifier-hover:rgba(228,239,226,.06)!important;
   --background-modifier-accent:rgba(163,189,160,.22)!important;
   --background-modifier-selected:rgba(224,180,92,.14)!important;
   --background-modifier-accent-focus:rgba(224,180,92,.34)!important;
-  --border-color:rgba(163,189,160,.20)!important;
+  --border-color:rgba(163,189,160,.30)!important;
 }
 
 /* ---- honey ----------------------------------------------------------- */
@@ -156,3 +156,20 @@ input:focus{border-color:rgba(224,180,92,.55)!important}
   .auth-page [class*="AuthLayout.module__backdropImage"],
   .auth-page [class*="AuthBrandPanel.module__identity"]::after{animation:none!important}
 }
+
+/* ---- fields and links on the art -------------------------------------- */
+/* On a painted backdrop the default field is the same value as the night behind it,
+   so it stops reading as something you can type into. Lift the fill, warm the border,
+   and let the one primary action own the brightest honey on the page. */
+.auth-page input,.auth-page textarea{
+  background-color:rgba(38,62,46,.92)!important;
+  border:1px solid rgba(163,189,160,.34)!important;
+  box-shadow:inset 0 1px 0 rgba(244,236,224,.05),0 2px 10px rgba(6,12,8,.35);
+  transition:border-color 140ms ease,box-shadow 140ms ease;
+}
+.auth-page input:focus,.auth-page textarea:focus{
+  border-color:rgba(224,180,92,.58)!important;
+  box-shadow:inset 0 1px 0 rgba(244,236,224,.06),0 0 0 3px rgba(224,180,92,.14);
+}
+.auth-page a{text-decoration-color:transparent}
+.auth-page a:hover{text-decoration-color:currentColor}

diff --git a/brand/make-backdrop.py b/brand/make-backdrop.py
@@ -62,11 +62,11 @@ def svg() -> str:
 
     return f"""<svg viewBox="0 0 {W} {H}" xmlns="http://www.w3.org/2000/svg">
   <defs>
-    <radialGradient id="night" cx="58%" cy="26%" r="86%">
-      <stop offset="0%" stop-color="#24402c"/>
-      <stop offset="46%" stop-color="#1a2d20"/>
-      <stop offset="78%" stop-color="#132219"/>
-      <stop offset="100%" stop-color="#0b1610"/>
+    <radialGradient id="night" cx="72%" cy="18%" r="92%">
+      <stop offset="0%" stop-color="#3d6247"/>
+      <stop offset="34%" stop-color="#2b4735"/>
+      <stop offset="66%" stop-color="#1d3325"/>
+      <stop offset="100%" stop-color="#101f16"/>
     </radialGradient>
     <radialGradient id="moonglow" cx="0.5" cy="0.5" r="0.5">
       <stop offset="0%" stop-color="#e8c46a" stop-opacity="0.30"/>
@@ -79,13 +79,18 @@ def svg() -> str:
       <stop offset="100%" stop-color="#9fd6a4" stop-opacity="0"/>
     </linearGradient>
     <radialGradient id="vignette" cx="50%" cy="46%" r="72%">
-      <stop offset="55%" stop-color="#000000" stop-opacity="0"/>
-      <stop offset="100%" stop-color="#000000" stop-opacity="0.55"/>
+      <stop offset="62%" stop-color="#000000" stop-opacity="0"/>
+      <stop offset="100%" stop-color="#000000" stop-opacity="0.42"/>
+    </radialGradient>
+    <radialGradient id="pool" cx="0.5" cy="0.5" r="0.5">
+      <stop offset="0%" stop-color="#0c1810" stop-opacity="0.72"/>
+      <stop offset="62%" stop-color="#0c1810" stop-opacity="0.42"/>
+      <stop offset="100%" stop-color="#0c1810" stop-opacity="0"/>
     </radialGradient>
     <mask id="crescent">
       <rect width="{W}" height="{H}" fill="black"/>
-      <circle cx="1010" cy="470" r="196" fill="white"/>
-      <circle cx="1092" cy="410" r="176" fill="black"/>
+      <circle cx="1010" cy="392" r="186" fill="white"/>
+      <circle cx="1092" cy="332" r="166" fill="black"/>
     </mask>
     <filter id="b6"><feGaussianBlur stdDeviation="6"/></filter>
     <filter id="b18"><feGaussianBlur stdDeviation="18"/></filter>
@@ -99,19 +104,19 @@ def svg() -> str:
   <rect width="{W}" height="{H}" fill="url(#night)"/>
 
   <!-- moon: glow, then the crescent itself -->
-  <circle cx="1010" cy="470" r="420" fill="url(#moonglow)"/>
-  <circle cx="1010" cy="470" r="196" fill="#e8c46a" opacity="0.16" mask="url(#crescent)" filter="url(#b18)"/>
-  <circle cx="1010" cy="470" r="196" fill="#f0d79a" opacity="0.55" mask="url(#crescent)"/>
+  <circle cx="1010" cy="392" r="430" fill="url(#moonglow)"/>
+  <circle cx="1010" cy="392" r="186" fill="#e8c46a" opacity="0.22" mask="url(#crescent)" filter="url(#b18)"/>
+  <circle cx="1010" cy="392" r="186" fill="#f7e3b4" opacity="0.85" mask="url(#crescent)"/>
 
   <!-- canopy: far layer, blurred, then nearer layers that bite into frame -->
-  {leaves(46, (-90, 320), (70, 190), 0, "#16301f", 0.85, 40)}
-  {leaves(38, (-60, 260), (55, 150), 0, "#102518", 0.95, 18)}
-  {leaves(30, (-70, 190), (45, 120), 0, "#0a1a11", 1.0, 6)}
+  {leaves(46, (-90, 320), (70, 190), 0, "#25422f", 0.9, 40)}
+  {leaves(38, (-60, 260), (55, 150), 0, "#193024", 0.95, 18)}
+  {leaves(30, (-70, 190), (45, 120), 0, "#0e1f16", 1.0, 6)}
 
   <!-- undergrowth, rising from the bottom edge -->
-  {leaves(40, (H - 330, H + 90), (70, 200), 0, "#142a1c", 0.9, 40)}
-  {leaves(34, (H - 250, H + 60), (55, 150), 0, "#0d1f14", 0.95, 18)}
-  {leaves(26, (H - 190, H + 40), (45, 120), 0, "#08150d", 1.0, 6)}
+  {leaves(44, (H - 430, H + 90), (80, 220), 0, "#24422e", 0.95, 40)}
+  {leaves(38, (H - 330, H + 70), (60, 170), 0, "#17301f", 1.0, 18)}
+  {leaves(30, (H - 250, H + 50), (50, 140), 0, "#0a1810", 1.0, 6)}
 
   <!-- mist bands across the quiet middle -->
   <rect x="0" y="{H * 0.42:.0f}" width="{W}" height="{H * 0.22:.0f}" fill="url(#mist)"/>
@@ -122,7 +127,8 @@ def svg() -> str:
   <g>{"".join(fireflies)}</g>
 
   <!-- grain, then vignette on top of everything -->
-  <rect width="{W}" height="{H}" filter="url(#grain)" opacity="0.10"/>
+  <rect width="{W}" height="{H}" filter="url(#grain)" opacity="0.06"/>
+  <ellipse cx="{W * 0.5:.0f}" cy="{H * 0.30:.0f}" rx="{W * 0.62:.0f}" ry="{H * 0.24:.0f}" fill="url(#pool)"/>
   <rect width="{W}" height="{H}" fill="url(#vignette)"/>
 </svg>"""
 
